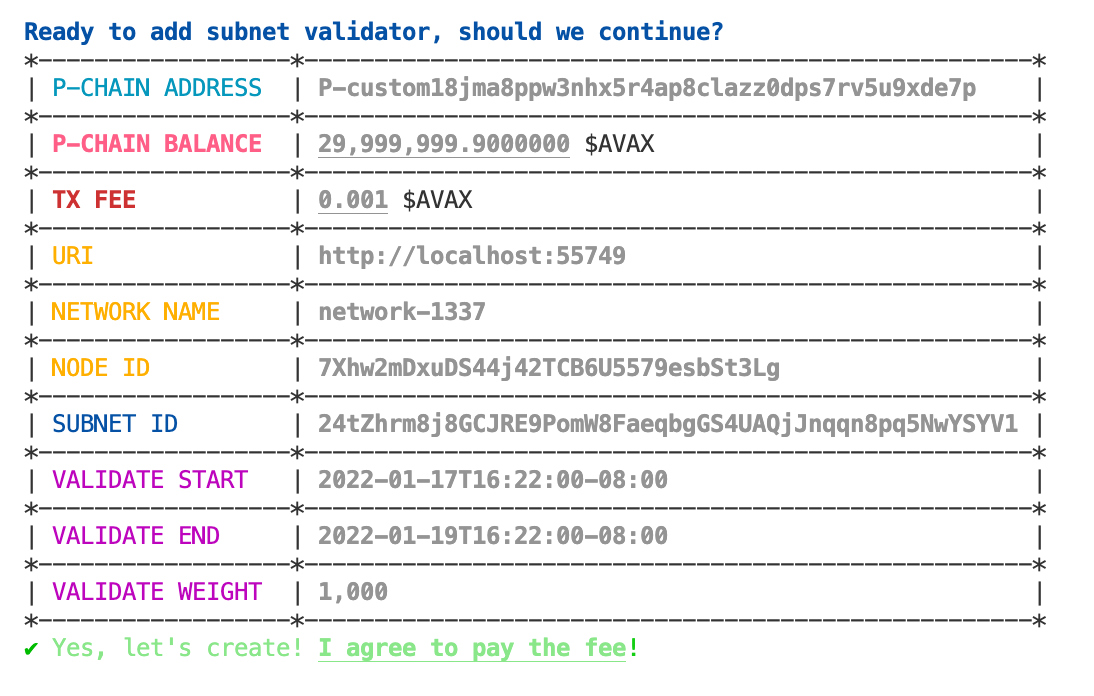
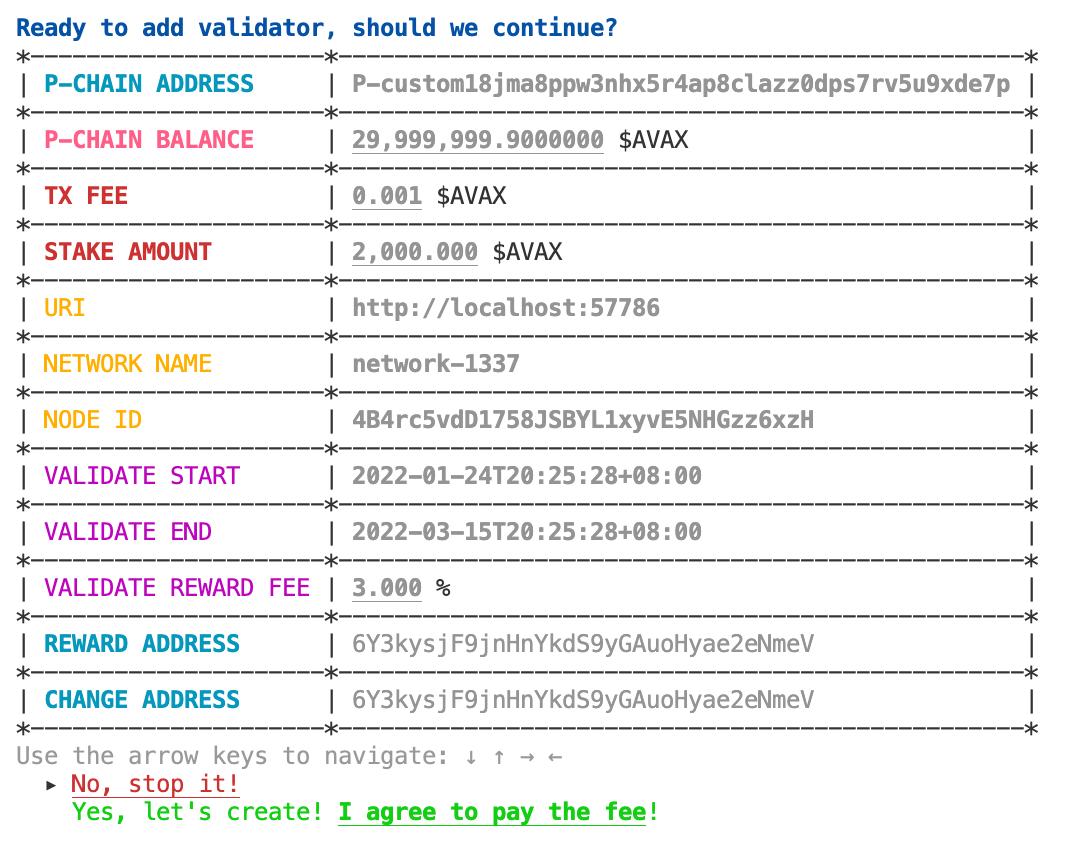
*: update README + cmd

Changed region(s): [[0.0, 0.0, 0.9832, 0.9957]]

diff --git a/cmd/add_validator.go b/cmd/add_validator.go
@@ -41,10 +41,9 @@ $ subnet-cli add validator \
 	cmd.PersistentFlags().Uint64Var(&stakeAmount, "stake-amount", 0, "stake amount denominated in nano AVAX (minimum amount that a validator must stake is 2,000 AVAX)")
 
 	start := time.Now().Add(30 * time.Second)
-	end := start.Add(2 * 24 * time.Hour)
+	end := start.Add(60 * 24 * time.Hour)
 	cmd.PersistentFlags().StringVar(&validateStarts, "validate-start", start.Format(time.RFC3339), "validate start timestamp in RFC3339 format")
 	cmd.PersistentFlags().StringVar(&validateEnds, "validate-end", end.Format(time.RFC3339), "validate start timestamp in RFC3339 format")
-	cmd.PersistentFlags().Uint64Var(&validateWeight, "validate-weight", 1000, "validate weight")
 	cmd.PersistentFlags().Uint32Var(&validateRewardFeePercent, "validate-reward-fee-percent", 2, "percentage of fee that the validator will take rewards from its delegators")
 	cmd.PersistentFlags().StringVar(&rewardAddrs, "reward-address", "", "node address to send rewards to (default to key owner)")
 	cmd.PersistentFlags().StringVar(&changeAddrs, "change-address", "", "node address to send changes to (default to key owner)")
@@ -101,7 +100,7 @@ func createValidatorFunc(cmd *cobra.Command, args []string) error {
 
 	msg := CreateAddTable(info)
 	if enablePrompt {
-		msg = formatter.F("\n{{blue}}{{bold}}Ready to add subnet validator, should we continue?{{/}}\n") + msg
+		msg = formatter.F("\n{{blue}}{{bold}}Ready to add validator, should we continue?{{/}}\n") + msg
 	}
 	fmt.Fprint(formatter.ColorableStdOut, msg)
 
@@ -142,7 +141,7 @@ func createValidatorFunc(cmd *cobra.Command, args []string) error {
 	if err != nil {
 		return err
 	}
-	color.Outf("{{magenta}}added subnet to validator{{/}} %q {{light-gray}}(took %v){{/}}\n\n", info.subnetID, took)
+	color.Outf("{{magenta}}added a node %q to validator{{/}} {{light-gray}}(took %v){{/}}\n\n", info.nodeID, took)
 
 	info.txFee = 0
 	info.balance, err = cli.P().Balance(info.key)
@@ -174,8 +173,8 @@ $ subnet-cli add subnet-validator \
 	cmd.PersistentFlags().StringVar(&subnetIDs, "subnet-id", "", "subnet ID (must be formatted in ids.ID)")
 	cmd.PersistentFlags().StringVar(&nodeIDs, "node-id", "", "node ID (must be formatted in ids.ID)")
 
-	start := time.Now().Add(30 * time.Second)
-	end := start.Add(2 * 24 * time.Hour)
+	start := time.Now().Add(time.Minute)
+	end := start.Add(50 * 24 * time.Hour)
 	cmd.PersistentFlags().StringVar(&validateStarts, "validate-start", start.Format(time.RFC3339), "validate start timestamp in RFC3339 format")
 	cmd.PersistentFlags().StringVar(&validateEnds, "validate-end", end.Format(time.RFC3339), "validate start timestamp in RFC3339 format")
 	cmd.PersistentFlags().Uint64Var(&validateWeight, "validate-weight", 1000, "validate weight")

diff --git a/cmd/add.go b/cmd/add.go
@@ -40,13 +40,13 @@ func CreateAddTable(i *Info) string {
 	}
 	if i.validateRewardFeePercent > 0 {
 		validateRewardFeePercent := humanize.FormatFloat("#,###.###", float64(i.validateRewardFeePercent))
-		tb.Append([]string{formatter.F("{{magenta}}VALIDATE REWARD FEE{{/}}"), formatter.F("{{light-gray}}{{bold}}{{underline}}%s{{/}} %", validateRewardFeePercent)})
+		tb.Append([]string{formatter.F("{{magenta}}VALIDATE REWARD FEE{{/}}"), formatter.F("{{light-gray}}{{bold}}{{underline}}%s{{/}} %%", validateRewardFeePercent)})
 	}
 	if i.rewardAddr != ids.ShortEmpty {
-		tb.Append([]string{formatter.F("{{cyan}}REWARD ADDRESS{{/}}"), formatter.F("{{light-gray}}%s{{/}} %", i.rewardAddr)})
+		tb.Append([]string{formatter.F("{{cyan}}{{bold}}REWARD ADDRESS{{/}}"), formatter.F("{{light-gray}}%s{{/}}", i.rewardAddr)})
 	}
 	if i.changeAddr != ids.ShortEmpty {
-		tb.Append([]string{formatter.F("{{cyan}}CHANGE ADDRESS{{/}}"), formatter.F("{{light-gray}}%s{{/}} %", i.changeAddr)})
+		tb.Append([]string{formatter.F("{{cyan}}{{bold}}CHANGE ADDRESS{{/}}"), formatter.F("{{light-gray}}%s{{/}}", i.changeAddr)})
 	}
 	tb.Render()
 	return buf.String()

diff --git a/cmd/common.go b/cmd/common.go
@@ -124,7 +124,7 @@ func BaseTableSetup(i *Info) (*bytes.Buffer, *tablewriter.Table) {
 	tb.SetRowLine(true)
 	tb.SetAlignment(tablewriter.ALIGN_LEFT)
 
-	tb.Append([]string{formatter.F("{{cyan}}P-CHAIN ADDRESS{{/}}"), formatter.F("{{light-gray}}{{bold}}%s{{/}}", i.key.P())})
+	tb.Append([]string{formatter.F("{{cyan}}{{bold}}P-CHAIN ADDRESS{{/}}"), formatter.F("{{light-gray}}{{bold}}%s{{/}}", i.key.P())})
 	tb.Append([]string{formatter.F("{{coral}}{{bold}}P-CHAIN BALANCE{{/}} "), formatter.F("{{light-gray}}{{bold}}{{underline}}%s{{/}} $AVAX", curPChainDenominatedBalanceP)})
 	if i.txFee > 0 {
 		txFee := float64(i.txFee) / float64(units.Avax)

diff --git a/README.md b/README.md
@@ -79,7 +79,7 @@ To create a subnet in the local network:
 ```bash
 subnet-cli create subnet \
 --private-key-path=.insecure.ewoq.key \
---public-uri=http://localhost:55749
+--public-uri=http://localhost:57786
 ```
 
 ![create-subnet-local-1](./img/create-subnet-local-1.png)
@@ -90,21 +90,46 @@ subnet-cli create subnet \
 ```bash
 subnet-cli add validator \
 --node-id="[YOUR-NODE-ID]" \
---subnet-id="[YOUR-SUBNET-ID]"
+--stake-amount=[STAKE-AMOUNT-IN-NANO-AVAX] \
+--validate-reward-fee-percent=2
 ```
 
-To add a validator with the local network:
+To add a validator to the local network:
 
 ```bash
 subnet-cli add validator \
 --private-key-path=.insecure.ewoq.key \
---public-uri=http://localhost:55749 \
---node-id="NodeID-7Xhw2mDxuDS44j42TCB6U5579esbSt3Lg" \
---subnet-id="24tZhrm8j8GCJRE9PomW8FaeqbgGS4UAQjJnqqn8pq5NwYSYV1"
+--public-uri=http://localhost:57786 \
+--node-id="NodeID-4B4rc5vdD1758JSBYL1xyvE5NHGzz6xzH" \
+--stake-amount=2000000000000 \
+--validate-reward-fee-percent=3
 ```
 
 ![add-validator-local-1](./img/add-validator-local-1.png)
 ![add-validator-local-2](./img/add-validator-local-2.png)
+
+### `subnet-cli add subnet-validator`
+
+```bash
+subnet-cli add subnet-validator \
+--node-id="[YOUR-NODE-ID]" \
+--subnet-id="[YOUR-SUBNET-ID]"
+```
+
+To add a subnet validator to the local network:
+
+```bash
+subnet-cli add subnet-validator \
+--private-key-path=.insecure.ewoq.key \
+--public-uri=http://localhost:57786 \
+--node-id="NodeID-4B4rc5vdD1758JSBYL1xyvE5NHGzz6xzH" \
+--subnet-id="24tZhrm8j8GCJRE9PomW8FaeqbgGS4UAQjJnqqn8pq5NwYSYV1" \
+--validate-start="2022-01-24T20:30:17+08:00" \
+--validate-end="2022-02-15T20:26:17+08:00"
+```
+
+![add-subnet-validator-local-1](./img/add-subnet-validator-local-1.png)
+![add-subnet-validator-local-2](./img/add-subnet-validator-local-2.png)
 
 ### `subnet-cli create blockchain`
 
@@ -121,11 +146,11 @@ To create a blockchain with the local cluster:
 ```bash
 subnet-cli create blockchain \
 --private-key-path=.insecure.ewoq.key \
---public-uri=http://localhost:55749 \
+--public-uri=http://localhost:57786 \
 --subnet-id="24tZhrm8j8GCJRE9PomW8FaeqbgGS4UAQjJnqqn8pq5NwYSYV1" \
---chain-name=test \
+--chain-name=spacesvm \
 --vm-id=tGas3T58KzdjLHhBDMnH2TvrddhqTji5iZAMZ3RXs2NLpSnhH \
---vm-genesis-path=/tmp/testvm.genesis
+--vm-genesis-path=/tmp/spacesvm.genesis
 ```
 
 ![create-blockchain-local-1](./img/create-blockchain-local-1.png)
@@ -137,8 +162,8 @@ To check the status of the blockchain `2o5THyMs4kVfC42yAiSt2SrjWNkxCLYZef1kewkqY
 
 ```bash
 subnet-cli status blockchain \
---private-uri=http://localhost:55749 \
---blockchain-id="2o5THyMs4kVfC42yAiSt2SrjWNkxCLYZef1kewkqYPEiBPjKtn" \
+--private-uri=http://localhost:57786 \
+--blockchain-id="X5FJH9b8YGLhakW8GY2vdrKSZxLSN4SeB3tc1kJbKqnwoNQ5L" \
 --check-bootstrapped
 ```
 
@@ -146,29 +171,4 @@ See [`scripts/tests.e2e.sh`](scripts/tests.e2e.sh) and [`tests/e2e/e2e_test.go`]
 
 ## Running with local network
 
-```bash
-# [OPTIONAL]
-# build avalanchego for local testing
-cd ${HOME}/go/src/github.com/ava-labs/avalanchego
-rm -rf ./build
-./scripts/build.sh
-
-# [OPTIONAL]
-# build test runner for local cluster setup
-cd ${HOME}/go/src/github.com/ava-labs/subnet-cli/tests/runner
-go build -o /tmp/subnet-cli.runner -v .
-/tmp/subnet-cli.runner \
---avalanchego-path ${HOME}/go/src/github.com/ava-labs/avalanchego/build/avalanchego \
---whitelisted-subnets="24tZhrm8j8GCJRE9PomW8FaeqbgGS4UAQjJnqqn8pq5NwYSYV1" \
---output-path /tmp/subnet-cli.runner.yml
-
-# [OPTIONAL]
-# get cluster endpoints to send requests to
-cat /tmp/subnet-cli.runner.yml
-```
-
-```yaml
-uris:
-- http://localhost:57574
-...
-```
+See [`avax-tester`](https://github.com/gyuho/avax-tester#avax-tester) or [`network-runner`](https://github.com/ava-labs/avalanche-network-runner).
